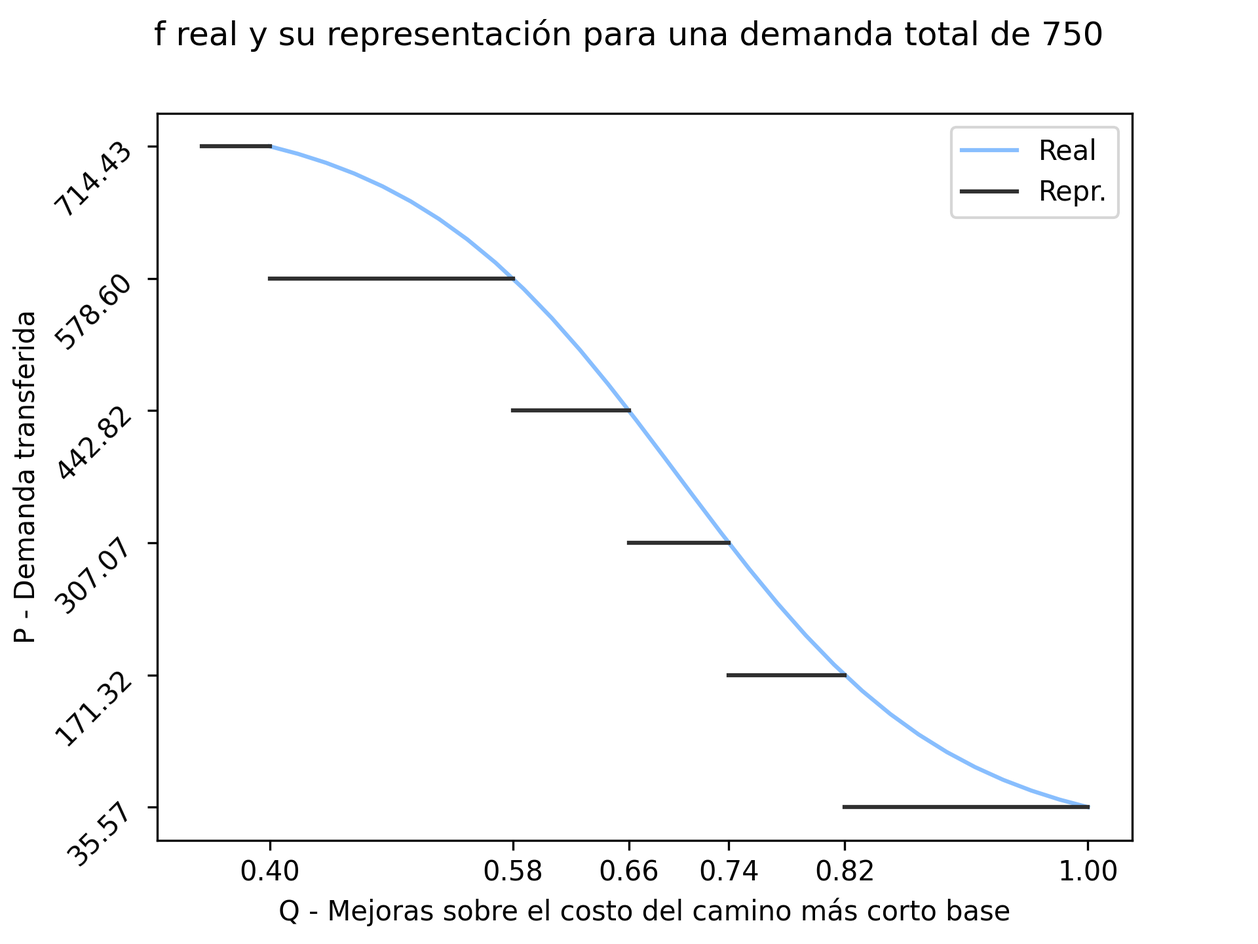
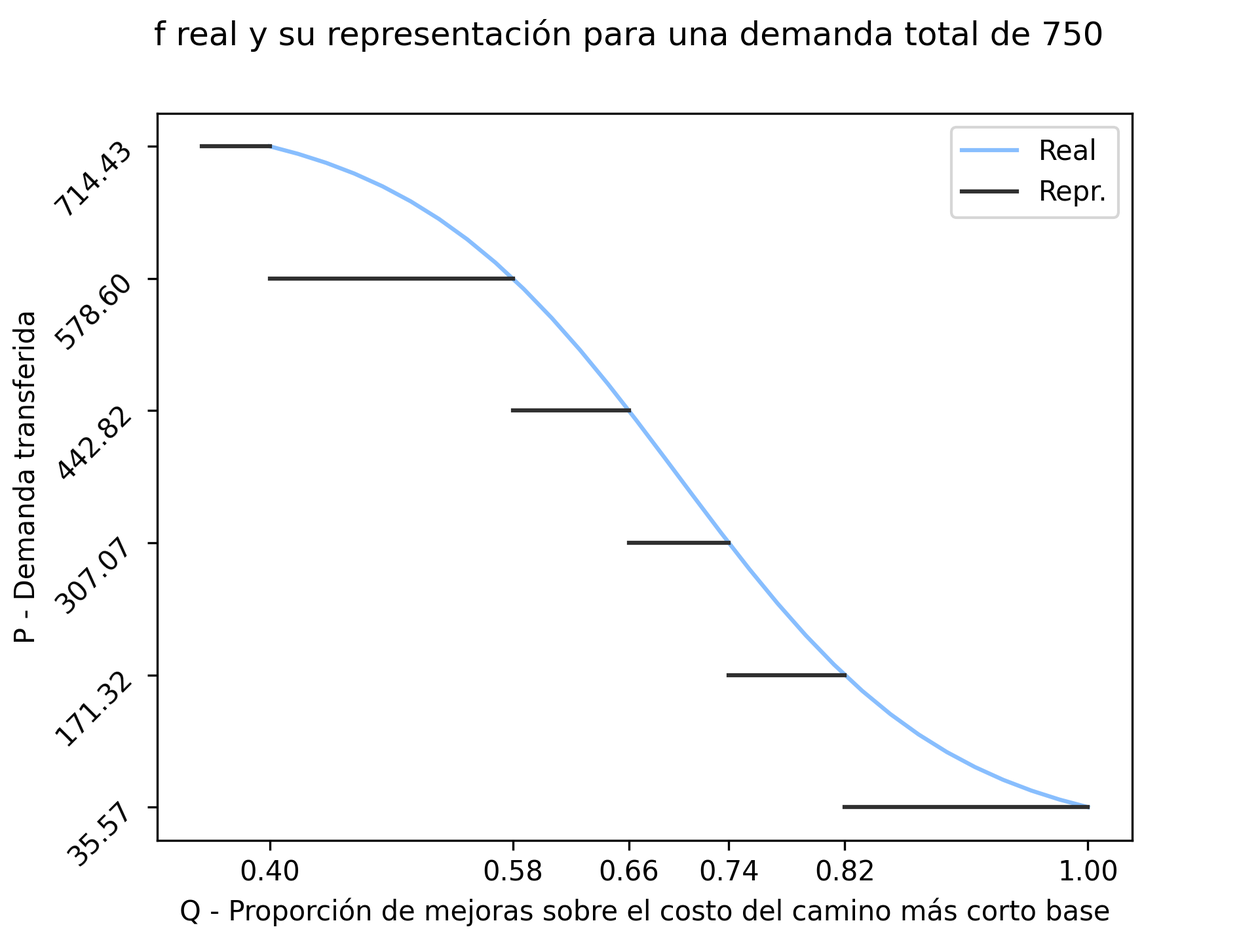
fixes in transfer functions definition

Changed region(s): [[0.1875, 0.9375, 0.875, 1.0]]

diff --git a/thesis/doc/document.tex b/thesis/doc/document.tex
@@ -337,11 +337,11 @@
     }
   \end{enumerate}
 
-  En este trabajo nos concentramos en el punto (\ref{bicycleusagefactors}), exclusivamente en los factores que pueden ser favorecidos por la presencia de cilcovias: infraestructura de ciclovías, comodidad y conveniencia, y seguridad y protección. Cada tipo de infraestructura de ciclovías puede afectar estos aspectos de distinta manera pero siempre lo modelamos como un único valor para cada arco en $C_{ai}$. Sobre los otros factores, asumimos que solo consideramos el universo de demanda que es transferible a la bicicleta, esto nos ahorra considerar aspectos como si el viaje se hace de noche o si el trabajo requiere un vehículo automotor.
+  En este trabajo nos concentramos en el punto \ref{bicycleusagefactors}, exclusivamente en los factores que pueden ser favorecidos por la presencia de cilcovias: infraestructura de ciclovías, comodidad y conveniencia, y seguridad y protección. Cada tipo de infraestructura de ciclovías puede afectar estos aspectos de distinta manera pero siempre lo modelamos como un único valor para cada arco en $C_{ai}$. Sobre los otros factores, asumimos que solo consideramos el universo de demanda que es transferible a la bicicleta, esto nos ahorra considerar aspectos como si el viaje se hace de noche o si el trabajo requiere un vehículo automotor.
 
   El mecanismo de agregar diferentes factores en un único valor es el concepto de utilidad que se utiliza en los modelos probabilísticos \cite{ortuz2011}, \cite{Pacheco2021}. La diferencia es la interpretación ya que en nuestro caso menores valores son más deseables.
 
-  El modelado del la red de calles y los distintos tipos ciclovías posibles lo realizamos de manera que sobre la red original puedan existir infraestructuras de ciclovías y luego se ajusta el costo de usuario de cada arco dependiendo de la infraestructura activa del arco. De igual forma se realizó en \cite{Lin2013} y \cite{Zhu2019}. Por otro lado, en \cite{baya2021} modelan esto como un grafo multicapas donde cada capa replica la red original. La primer capa es la red de calles, la siguiente capa es la infraestructura de tipo 1 y así sucesivamente. Luego se agregan arcos que conectan los nodos replicados entre diferentes capas. Este diseño les permite identificar los flujos que cambian de tipo de ciclovía con el objetivo de penalizar las discontinuidades. La diferencia sustancial entre ambos enfoques es que el primero modela los diferentes tipos de infrastructura a nivel de formulación y el segundo a nivel de los datos.
+  El modelado del la red de calles y los distintos tipos ciclovías posibles lo realizamos de manera que sobre la red original puedan existir infraestructuras de ciclovías y luego se ajusta el costo de usuario de cada arco dependiendo de la infraestructura activa del arco. De igual forma se realizó en \cite{Lin2013} y \cite{Zhu2019}. Por otro lado, en \cite{baya2021} modelan esto como un grafo multicapas donde cada capa replica la red original. La primer capa es la red de calles, la siguiente capa es la infraestructura de tipo 1 y así sucesivamente. Luego se agregan arcos que conectan los nodos replicados entre diferentes capas. Este diseño les permite identificar los flujos que cambian de tipo de ciclovía con el objetivo de penalizar las discontinuidades. La diferencia sustancial entre ambos enfoques es que el primero modela los diferentes tipos de infraestructura a nivel de formulación y el segundo a nivel de los datos.
 
   \section{Resolución del problema}
   \label{sect:problemresolution}
@@ -351,6 +351,7 @@
   En este trabajo tomamos un camino alternativo reescribiendo la formulación binivel como un nivel basado en sus características estructurales y en los valores que tienen sentido para sus parámetros. Previo a esta reestructura debemos adaptar la formulación binivel de manera que las variables de diferentes niveles no se encuentren en un producto, ya que esto deviene en restricciones no lineales luego de la reescritura.
 
   \subsection{Quitando producto de variables}
+  \label{sect:variableproductremoval}
 
   Proponemos la siguiente formulación del problema de segundo nivel:
 
@@ -364,7 +365,7 @@
   Si utilizamos la ecuación (\ref{eq:subproblemrefeq1}) en la restricción de igualdad de $w_k$ del problema binivel (ecuación (\ref{eq:shortestpath})) entonces el problema es equivalente con la ventaja eliminamos el producto en cuestión. La equivalencia se da porque formulación (\ref{eq:subproblemrefeq1})-(\ref{eq:subproblemrefeq4}) desagrega los flujos para cada infraestructura además de para cada par origen-destino y arco en la variable $h_{aki}$, que es lo que se modela con el producto $y_{ai} x_{ak}$.
 
   \subsection{Formulación alternativa de un nivel}
-  \label{altOneLevelFormulation}
+  \label{sect:singlelevelformulation}
 
   Proponemos una formulación alternativa de un nivel que puede ser resuelta por un solver MILP convencional y no incurre en agregados de variables. Sobre esta formulación haremos pruebas empíricas que muestran su validez. Esta formulación resuelve el mismo problema y podemos obtener de ella tanto un valor de demanda transferida como el conjunto de decisiones de cuales infraestructuras construir y dónde.
 
@@ -384,18 +385,20 @@
   Si las funciones son decrecientes (no estrictamente), entonces puede haber valores de costos de caminos más cortos que no tienen incentivo a decrecer si no se logra mayor transferencia de demanda.
 
   \subsection{Modelado de transferencia de demanda}
+  \label{sect:transferfunctiondefs}
 
   Lo que resta definir es cómo modelamos las funciones $f_k$. Nuestro objetivo es definir un mecanismo para que cualquier tipo de función pueda ser expresada como un problema de optimización lineal y que este se pueda acoplar a la formulación existente.
 
   Podemos encontrar en la literatura soluciones a problemas similares. En \cite{laporte2007} y \cite{marin2007} se modela la demanda transferida al transporte público de trenes desde el transporte privado. Consideran un parámetro $c^{PRIV}_k, k \in OD$ que modela el costo del transporte privado para un par origen-destino $k$, si la red de transporte público logra un costo menor, entonces se considera que toda la demanda del par origen-destino $k$ se transfiere a dicho modo, lo que se conoce como {\it all-or-nothing}. Utilizando nuestra notación, la demanda transferida para el par origen-destino $k$ en este esquema sería:
 
-  $$
+  \begin{equation}
+    \label{eq:allornothing}
     f_k(w_k) = \left\{ \begin{array}{lcr}
       d_k & \mbox{si}   & w_k < C^{PRIV}_k \\
             0 & \mbox{sino} &
     \end{array}
     \right.
-  $$
+  \end{equation}
 
   \subsubsection{Definición propuesta}
 
@@ -412,7 +415,7 @@
 
   Para modelar la función $argmin$ en una formulación como la que venimos trabajando es necesario utilizar variables de activación que permitan que sólo un valor del conjunto índice esté activo (para cada $k$). Por ejemplo, si se usa $z_j,\; j \in J$, lo antedicho equivale a decir que $z_j \in \{0,1\}$ y $\sum_{j \in J} z_j = 1$. Luego queda en manos de la minimización elegir el $z_j$ activo óptimo.
 
-  Nótese que esta definición es una extensión de la {\it all-or-nothing}. Para modelarla basta considerar $J = \{0, 1\}$, $P_0 = 0, P_1 = D_k$ y $Q_0 = M, Q_1 = c^{PRIV}_k$, donde $M$ es un número arbitrario mayor a $c^{PRIV}_k$ y $D_k$ es la demanda para el par origen-destino $k$.
+  Nótese que esta definición es una extensión de la {\it all-or-nothing} en (\ref{eq:allornothing}). Para modelarla basta considerar $J = \{0, 1\}$, $P_0 = 0, P_1 = d_k$ y $Q_0 = M, Q_1 = C^{PRIV}_k$, donde $M$ es un número arbitrario mayor a $C^{PRIV}_k$ y $d_k$ es la demanda para el par origen-destino $k$.
 
   \begin{figure}[h!]
     \centering
@@ -421,20 +424,21 @@
     \label{fig:fdrawexample}
   \end{figure}
 
-  \FloatBarrier
-  \subsubsection{Formulación de $f_k$ como LP}
+  Una alternativa más precisa de esta representación es la definida en \cite{Crainic2021} donde se presenta un marco para modelar funciones arbitrarias como funciones lineal de a partes con valores de pendiente no nulos entre puntos de quiebre. Esta representación es una generalizacón de la presentada en nuestro trabajo y permite representar de manera más precisa la función real al costo de mayor complejidad al momento de modelarla como problema de programación lineal (LP). Según los autores, debido a la cantidad de variables y restricciones que agrega es recomendable utilizar algorítmos especializados como Dantzig-Wolfe.
 
-  La forma más simple de modelar $f_k$ (ó simplemente $f$) es la (\ref{eq:fkv1eq1})-(\ref{eq:fkv1eq4}). Sea $W \in \mathbb{R}^+$ un valor del costo de un camino:
+  \FloatBarrier
+  \subsubsection{Formulación como problema de programación lineal}
+
+  La forma más simple de modelar $f_k$ (ó simplemente $f$) es la denotada por (\ref{eq:fkv1eq1})-(\ref{eq:fkv1eq4}). Sea $W \in \mathbb{R}^+$ un valor del costo de un camino:
 
   \begin{align}
-    f(W) =\; & max \sum_{j \in J} P_j y_j    & \label{eq:fkv1eq1}\\
+    f(W) =\; & max \sum_{j \in J} P_j y_j    & \label{eq:fkv1eq1} \\
              & s.t. \sum_{j \in J} y_j = 1   & \label{eq:fkv1eq2} \\
              & \;\;\; Q_j \geq W y_j         & \label{eq:fkv1eq3} \forall j \in J \\
              & \;\;\; y_j \in \{0,1\}        & \label{eq:fkv1eq4} \forall j \in J
   \end{align}
 
-
-  La definición anterior es un problema lineal bien formulado, sin embargo no puede ser integrada tal cual está a la formulación (\ref{eq:objectivealt}) - (\ref{eq:flowbalancealt}) sin perder linealidad dado que $W$ es modelado con variable ($w_k$) entonces el resultado seria un problema no lineal por la restricción (\ref{eq:fkv1eq3}). Por este motivo estudiamos dos formulaciones alternativas que logran solucionar esta situación. La idea en ambas es desagregar $W$ como la suma de nuevas variables y utilizar estas en la restricción (\ref{eq:fkv1eq3}) en lugar del producto $W y_j$.
+  La definición anterior es un problema lineal bien formulado, sin embargo no puede ser integrada tal cual está a la formulación (\ref{eq:objectivealt})-(\ref{eq:flowbalancealt}) sin perder linealidad dado que $W$ es modelado con una variable ($w_k$) entonces el resultado seria un problema no lineal por la restricción (\ref{eq:fkv1eq3}). Por este motivo estudiamos dos formulaciones alternativas que logran solucionar esta situación. La idea en ambas es desagregar $W$ como la suma de nuevas variables y utilizar estas en la restricción (\ref{eq:fkv1eq3}) en lugar del producto $W y_j$.
 
   \paragraph*{$f_k$ como LP versión 1}
 
@@ -449,7 +453,7 @@
              & \;\;\; w^{aux}_j, w^{sink}_j \geq 0    & \label{eq:fkv3eq7} \forall j \in J
   \end{align}
 
-  Se desagrega $W$ para cada $j$ en $w^{sink}_j + w^{aux}_j$ de manera que uno de los dos tenga el valor de $W$, esto se logra con las restricciones (\ref{eq:fkv3eq4}) y (\ref{eq:fkv3eq5}). Entonces se cumple que solo el $w^{aux}_j$ cuyo $y_j$ esté activo tendrá el valor de $W$, mientras que para el resto de los $j$ las variables $w^{sink}_j$ habrán tomado dicho valor. Las mencionadas restricciones sirven para activar $y_i$ y utilizan un parámetro $M \geq W$ arbitrario. Finalmente, las restricciones (\ref{eq:fkv3eq2}) y (\ref{eq:fkv3eq6}) logran que solo una de las variables $w^{aux}_j$ o $w^{sink}_j$ tome el valor de $W$, para cada $j$.
+  Se desagrega $W$ para cada $j$ en $w^{sink}_j + w^{aux}_j$ de manera que uno de los dos tenga el valor de $W$, esto se logra con las restricciones (\ref{eq:fkv3eq4}) y (\ref{eq:fkv3eq5}). Entonces se cumple que solo el $w^{aux}_j$ cuyo $y_j$ esté activo tendrá el valor de $W$, mientras que para el resto de los $j$ las variables $w^{sink}_j$ habrán tomado dicho valor. Las mencionadas restricciones sirven para activar $y_i$ y utilizan un parámetro $M \geq W$ arbitrario. Finalmente, las restricciones (\ref{eq:fkv3eq2}) y (\ref{eq:fkv3eq6}) logran que solo una de las variables $w^{aux}_j$ o $w^{sink}_j$ tome el valor de $W$, para cada $j$. Las variables $w^{sink}_j$ sirven para absorber el valor de $W$ cuando $y_j$ está inactiva de manera que se pueda cumplir la restricción (\ref{eq:fkv3eq3}) cuando $W$ es mayor a a $Q_j$.
 
   \paragraph*{$f_k$ como LP versión 2}
 
@@ -463,36 +467,34 @@
              & \;\;\; w^{aux}_j \geq 0                & \label{eq:fkv2eq6} \forall j \in J
   \end{align}
 
-  En este caso se desagrega $W$ como suma de $|J|$ variables $w^{aux}_j$ de manera que solo una de ellas esté activa y tenga el valor de $W$. Para activar $y_j$ se agrega la restricción (\ref{eq:yactivation1}) utilizando, igual que en la formulación anterior, un parámetro $M \geq W$. Finalmente las restricciones (\ref{eq:activatewaux}) y (\ref{eq:fkv2eq2}) logran que solo uno de los $w^{aux}_j$ tome el valor de $W$ y el resto sean 0.
+  En este caso se desagrega $W$ como suma de $|J|$ variables $w^{aux}_j$ de manera que solo una de ellas esté activa y tenga el valor de $W$. Para activar $y_j$ se agrega la restricción (\ref{eq:yactivation1}) utilizando, igual que en la formulación anterior, un parámetro $M \geq W$. Finalmente, las restricciones (\ref{eq:fkv2eq2}) y (\ref{eq:activatewaux}) logran que solo uno de los $w^{aux}_j$ tome el valor de $W$ y el resto sean 0.
 
-  \subsubsection{Validación de la formulación}
+  \subsubsection{Discusión de las formulaciones de transferencia de demanda}
 
-  Según definimos $f_k(W)$ en la fórmula (\ref{eq:deffks}), sea $p = f_k(W)$, entonces se cumple que:
+  Según definimos $f_k(W)$ en (\ref{eq:deffks}), sea $p = f_k(W)$, entonces se cumple que:
 
   \begin{enumerate}
     \item {\label{deffpt1} $p$ es exactamente uno de los valores del conjunto de valores $P_j$, es decir: $p \in \{P_j\}_{j \in J}$}
     \item {\label{deffpt2} Sea $\hat{j} = j \;|\; p = P_j$. Se cumple que el valor del punto de quiebre $Q$ asociado a $\hat{j}$ no es menor que el costo del camino más corto $W$, es decir: $Q_{\hat{j}} \geq W$.}
-    \item {\label{deffpt3} Dado el $\hat{j}$ anterior, entonces no existe un punto de quiebre $Q_j \forall j \in J\setminus\{\hat{j}\}$ que sea no mayor al punto de quiebre $Q_{\hat{j}}$ y mayor o igual al costo del camino más corto, es decir: $\not{\exists}\; Q_j\; \forall j \in J\setminus\{\hat{j}\} \;|\; Q_j \in  [W, Q_{\hat{j}}]$}.
+    \item {\label{deffpt3} Dado el $\hat{j}$ anterior, entonces no existe un punto de quiebre $Q_j \; \forall j \in J\setminus\{\hat{j}\}$ que sea no mayor al punto de quiebre $Q_{\hat{j}}$ y mayor o igual al costo del camino más corto, es decir: $\not{\exists}\; Q_j\; \forall j \in J\setminus\{\hat{j}\} \;|\; Q_j \in  [W, Q_{\hat{j}}]$}.
   \end{enumerate}
 
-  Es de nuestro interés analizar la correctitud de las formulaciones respecto a los puntos mencionados.
-
-  Para la versión 1, tenemos que el punto \ref{deffpt1} se cumple en la función objetivo donde el valor objetivo es la suma sobre el conjunto $\{P_j\}_{j \in J}$, la restricción (\ref{eq:fkv3eq2}) dice que solo uno de esos valores puede estar activo en la suma del objetivo dado el dominio de la variable $y_j$. Luego, el punto \ref{deffpt2} se cumple dado que $y_{\hat{j}} = 1$ por el punto anterior, entonces $w_{\hat{j}}^{aux} = W$ por restricciones (\ref{eq:fkv3eq4}), (\ref{eq:fkv3eq5}) y (\ref{eq:fkv3eq6}) y la restricción (\ref{eq:fkv3eq3}) verifica el punto en cuestión. Finalmente, el punto \ref{deffpt3} se cumple por el hecho de que la función objetivo es una maximización y que $f(W)$ es una función estrictamente decreciente, entonces, si existiera un $Q_a \in \{Q_j\}_{j \in J} \;|\; Q_a < Q_{\hat{j}}, a \in J$, existe un valor $P_a > P_{\hat{j}}$ lo que contradice el hecho de que el objetivo sea una maximización.
+  Es de nuestro interés analizar la correctitud de las formulaciones respecto a los puntos mencionados. Para la versión 1, tenemos que el punto \ref{deffpt1} se cumple en la función objetivo donde se establece el valor objetivo como la suma sobre el conjunto $\{P_j\}_{j \in J}$, la restricción (\ref{eq:fkv3eq2}) dice que solo uno de esos valores puede estar activo en la suma del objetivo dado el dominio de la variable $y_j$. Luego, el punto \ref{deffpt2} se cumple dado que $y_{\hat{j}} = 1$ por el punto anterior, entonces $w_{\hat{j}}^{aux} = W$ por restricciones (\ref{eq:fkv3eq4}), (\ref{eq:fkv3eq5}) y (\ref{eq:fkv3eq6}) y la restricción (\ref{eq:fkv3eq3}) verifica el punto en cuestión. Finalmente, el punto \ref{deffpt3} se cumple por el hecho de que la función objetivo es una maximización y que $f(W)$ es una función estrictamente decreciente, entonces, si existiera un $Q_a \in \{Q_j\}_{j \in J} \;|\; Q_a < Q_{\hat{j}}, a \in J$, existe un valor $P_a > P_{\hat{j}}$ lo que contradice el hecho de que el objetivo sea una maximización.
 
   Podemos utilizar las justificaciones de los puntos 1 y 3 para la versión 2 de la formulación. Luego, el punto \ref{deffpt2} se cumple dado que $y_{\hat{j}} = 1$ por las los puntos anteriores y junto a que que $w^{aux}_{\hat{j}} = W$ por las restricciones (\ref{eq:fkv2eq2}), (\ref{eq:yactivation1}) y (\ref{eq:activatewaux}) tenemos que la condición se cumple en la restricción (\ref{eq:implfkoriginalineq}).
 
   \subsubsection{Valores posibles de $P_j$ y $Q_j$}
 
-  Los valores que tienen sentido para los conjuntos $Q$ y $P$ son cualquier subconjunto discreto del dominio de la función de transferencia de demanda y su valor funcional, respectivamente. Dado un par origen-destino $k \in OD$ entendemos que tiene sentido que el dominio de $f_k$ sean valores de costos del camino más corto entre el mejor posible y el peor. Dada una instancia del problema y un par origen destino, llamamos $\underline{W}$ al costo del camino más corto suponiendo que las mejores infraestructuras se pueden construir y $\overline{W}$ al costo del camino más corto sobre el grafo base (sin infraestructuras especiales) \footnote{En realidad, $\overline{W}$ es el mínimo valor para el que $f_k$ es mínimo, podría ser cualquier número arbitrariamente grande.}, entonces $Q_j \in [\underline{W}, \overline{W}],\; \forall j \in J$. Los valores de $Pj$ son la cantidad de demanda que se transfiere para cada $Q_j$, es decir $P = \{f_k(Q_j):\; j \in J\}$. El conjunto índice $J$ determina la precisión con que se representa la función $f_k$.
+  Los valores que tienen sentido para los conjuntos $Q$ y $P$ son cualquier subconjunto discreto del dominio de la función de transferencia de demanda y su valor funcional, respectivamente. Dado un par origen-destino $k \in OD$ entendemos que tiene sentido que el dominio de $f_k$ sean valores de costos de usuario de camino más cortos que van desde aquel para el cual toda la demanda se transfiere hasta aquel para el cual no hay demanda transferida. Dada una instancia del problema y un par origen destino, llamamos $\underline{W}$ al costo del camino más corto suponiendo que las mejores infraestructuras se pueden construir y $\overline{W}$ al costo del camino más corto sobre el grafo base (sin infraestructuras especiales) \footnote{En realidad, $\overline{W}$ es el mínimo valor para el que $f_k$ es mínimo, podría ser cualquier número arbitrariamente grande.}, entonces $Q_j \in [\underline{W}, \overline{W}],\; \forall j \in J$. Los valores de $Pj$ son la cantidad de demanda que se transfiere para cada $Q_j$, es decir $P = \{f_k(Q_j):\; j \in J\}$. El conjunto índice $J$ determina la precisión con que se representa la función $f_k$.
 
-  Es deseable también que el mínimo de $f_k$ sea 0 y que el máximo sea la demanda total del par $k$: $D_k$, osea $f_k(\overline{W}) = 0$ y $f_k(\underline{W}) = D_k$. Es decir, si ninguna mejora es impuesta al camino más corto no haya transferencia de demanda así como si la mejor infraestructura posible es construida toda la demanda se transfiera. Esto tiene sentido si trabajamos solamente con la demanda transferible a la bicicleta, dejando afuera la que ya utiliza dicho medio de transporte, la que en ningún caso la utilizaría y la que requiere de costos de usuario demasiado bajos para las posibilidades de la instancia.
+  Es deseable también que el mínimo de $f_k$ sea 0 y que el máximo sea la demanda total del par $k$: $d_k$, osea $f_k(\overline{W}) = 0$ y $f_k(\underline{W}) = d_k$. Es decir, si ninguna mejora es impuesta al camino más corto no haya transferencia de demanda así como si la mejor infraestructura posible es construida toda la demanda se transfiera. Esto tiene sentido si trabajamos exclusivamente con la demanda transferible a la bicicleta dejando afuera la que ya utiliza dicho medio de transporte, la que en ningún caso la utilizaría y la que requiere de costos de usuario demasiado bajos para las posibilidades de la instancia.
 
   Una forma posible de establecer los valores de $J$, $P_j$ y $Q_J$ es: dada una función $f_k$, tomando $N$ valores equidistantes entre $[\underline{W}, \overline{W}]$ obtendremos $Q_j$ y tomando el valor funcional de esos puntos obtendremos $P_j$, luego $J=\{1,..,N\}$.
 
-  \subsection{Poniendo todo junto}
+  \subsection{Formulación integrada}
   \label{sect:alltogether}
 
-  Luego del análisis hecho, ensamblamos la formulación final de manera explícita. Dado que tenemos dos variantes del modelado de las $f_k$ entonces también tendremos dos variantes de esta formulación. Aquí presentamos la formulación completa utilizando la versión 2 de $f_k$, siendo la otra muy similar. Fundamentalmente sobre estas dos variantes trabajamos en lo que sigue.
+  Luego del análisis hecho en las secciones \ref{sect:variableproductremoval}, \ref{sect:singlelevelformulation} y \ref{sect:transferfunctiondefs}, ensamblamos la formulación final de manera explícita. Dado que tenemos dos variantes del modelado de las funciones de transferencia de demanda entonces también tendremos dos variantes de esta formulación. Aquí presentamos la formulación completa utilizando la versión 2 de $f_k$, siendo la otra muy similar. Fundamentalmente sobre estas dos variantes trabajamos en lo que sigue.
 
   Además de las definiciones en la formulación inicial (\ref{eq:objective1lvl})-(\ref{eq:flowbalance}), agregamos las siguientes:
 
@@ -503,8 +505,10 @@
     \item[$M$]: Número positivo muy grande.
     \item[$z_{kj}$]: Variable binaria que determina si la demanda transferida para el par origen-destino $k \in OD$ es la de índice $j \in J$.
     \item[$h_{aki}$]: Variable no negativa que determina el flujo que pasa por el arco $a \in A$, para el par origen-destino $k \in OD$ utilizando la infraestructura $i \in I$.
-    \item[$w^{aux}_{kj}$]: Variable no negativa que contiene el valor de $w_{k}$ si $z_{kj}$ esta activa y de lo contrario cero.
+    \item[$w^{aux}_{kj}$]: Variable no negativa que contiene el valor de $w_{k}$ si $z_{kj}$ está activa y de lo contrario cero.
   \end{description}
+
+  La formulación que resulta de la integración de las formulaciones (\ref{eq:objectivealt})-(\ref{eq:flowbalancealt}) que define la formulación de un nivel, de (\ref{eq:subproblemrefeq1})-(\ref{eq:subproblemrefeq4}) que quita el producto de variables y de (\ref{eq:fkv2eq1})-(\ref{eq:fkv2eq6}) que define la versión 2 de las funciones de transferencia de demanda es la siguiente:
 
   \begin{align}
     \text{max}    & \sum_{k \in OD} \sum_{j \in J} P_{kj} z_{kj}                          & \label{eq:objectivefinalalt} \\
@@ -518,18 +522,19 @@
                   & \sum_{a \in A_n^+} x_{ak} - \sum_{a \in A_n^-} x_{ak} = \theta_{nk}   & \forall n \in N, k \in OD \label{eq:flowbalancealtfinal} \\
                   & x_{ak} = \sum_{i \in I} h_{aki}                                       & \forall a \in A, k \in K \label{eq:flowactivationalt} \\
                   & 0 \leq h_{aki} \leq y_{ai}                                            & \forall a \in A, k \in K, i \in I \label{eq:respectinfraalt} \\
-                  & z_{kj} \in \{0,1\}                                                    & \nonumber \\
-                  & w_k \geq 0, y_{ai} \in \{0,1\}, x_{ak} \geq 0, h_{aki} \geq 0         & \nonumber
+                  & z_{kj} \in \{0,1\}                                                    & \forall k \in OD, j \in J \nonumber \\
+                  & y_{ai} \in \{0,1\}                                                    & \forall a \in A, i \in I \nonumber \\
+                  & h_{aki} \geq 0                                                        & \forall a \in A, k \in K, i \in I \nonumber
   \end{align}
 
   Donde las nuevas ecuaciones son:
 
   \begin{description}
-    \item[\ref{eq:objectivefinalalt}]: Función que suma los valores de demanda transferida $P_{kj}$ activos.
+    \item[\ref{eq:objectivefinalalt}]: Función que suma los valores de demanda transferida $P_{kj}$ correspondiente a los puntos de quiebre activos.
     \item[\ref{eq:breakpointsalt}]: Restricción que determina que los puntos de quiebre activos son aquellos cuyo costo es menor o igual al del camino más corto.
     \item[\ref{eq:singularbreakpointalt}]: Restricción que permite solo un punto de quiebre activo para cada par origen-destino $k \in OD$.
-    \item[\ref{eq:flowactivationalt}]: El flujo total para el arco $a \in A$ y el par origen-destino $k \in OD$ es la suma de los flujos de todos las infraestructuras.
-    \item[\ref{eq:respectinfraalt}]: El flujo por el arco $a \in A$, para el par origen-destino $k \in OD$ y la infraestructura $i \in I$ puede estar activo si la infraestructura $i$ esta activa.
+    \item[\ref{eq:flowactivationalt}]: Restricción que fija el valor del flujo por arco por par origen-destino en base al flujo por arco, por par origen-destino y por infraestructura.
+    \item[\ref{eq:respectinfraalt}]: Restricción que limita el flujo desagregado por arco e infraestructura ($h_{aki}$) a la infraestructura activa en el arco. El flujo por el arco $a \in A$, para el par origen-destino $k \in OD$ y la infraestructura $i \in I$ puede estar activo si la infraestructura $i$ esta activa.
   \end{description}
 
   \subsection{Validación}
@@ -552,7 +557,7 @@
     Q_{kj} z_{kj} - r_{kj} = w^{aux}_{kj}
   \end{equation}
 
-  Advertir que esta restricción se encuentra en ambas versiones de la formulaciónes de $f_k$ por lo tanto en ambos casos se aplica esta variante.
+  Advertir que esta restricción se encuentra en ambas versiones de la formulaciones de $f_k$ por lo tanto en ambos casos se aplica esta variante.
 
   Sea el parámetro $\beta > 0$, la función multiobjetivo 1 es:
 
@@ -804,7 +809,7 @@
 
   Incurrimos a la simplificación de considerar, al definir una instancia, la cantidad $T$ de tipos infraestructuras posibles a utilizar y no cuáles, de manera que las infraestructuras utilizables sean $I = \{0,.., T - 1\}$. Dada una instancia del problema, llamamos $m$ a la proporción de mejora máxima que puede dar la mejor infraestructura de entre las disponibles, es decir $m = C_{infra}(T - 1)$. El valor $m$ es de utilidad al definir las funciones de transferencia de demanda como veremos a continuación.
 
-  Respecto al comportamiento de los usuarios, suponemos que la demanda de todos los pares origen-destino se comporta de igual manera, lo cual tiene sentido al considerar una población determinada. Esto reduce la necesidad de especificar $|OD|$ funciones de transferencias de demanda a una sola. Es decir, para cada par origen destino $k$, tenemos que $f_k(w_k) = f({w_k \over S^{best}_k})D_k$, donde $D_k$ es la demanda máxima que se puede transferir, $S^{best}_k$ es el costo del camino más corto sobre la infraestructura base y $f: [m, 1] \rightarrow [0, 1]$ modela la proporción de demanda transferida en función de la proporción del nuevo costo sobre el costo base $S^{best}_k$.
+  Respecto al comportamiento de los usuarios, suponemos que la demanda de todos los pares origen-destino se comporta de igual manera, lo cual tiene sentido al considerar una población determinada. Esto reduce la necesidad de especificar $|OD|$ funciones de transferencias de demanda a una sola. Es decir, para cada par origen destino $k$, tenemos que $f_k(w_k) = f({w_k \over S^{best}_k})d_k$, donde $d_k$ es la demanda máxima que se puede transferir, $S^{best}_k$ es el costo del camino más corto sobre la infraestructura base y $f: [m, 1] \rightarrow [0, 1]$ modela la proporción de demanda transferida en función de la proporción del nuevo costo sobre el costo base $S^{best}_k$.
 
   Partimos del trabajo {\it Performance evaluation of extreme bicycle scenarios} \cite{shwe2014} que analizando una extensiva encuesta realizada en varios países aproxima la proporción de viajes hechos en bicicleta y el largo de infraestructura de ciclovía per cápita en la ciudad a una relación lineal. Tomando este resultado, utilizamos una función lineal decreciente como función de transferencia de referencia. Como alternativa, encontramos en el libro {\it Modeling Transport} \cite{ortuz2011} que el comportamiento de la demanda al momento de decidir entre dos modos se comporta como una función con forma de S, logística o sigmoide, por lo que también consideramos una función logística en nuestras pruebas. Por completitud analizamos otras funciones que podrían considerarse razonables: una con concavidad estrictamente positiva y otra con concavidad estrictamente negativa en el intervalo $[m, 1]$.
 

diff --git a/scripts/docresources.py b/scripts/docresources.py
@@ -99,7 +99,7 @@ def draw_f_example():
     ax.set_yticklabels([format(d, '.2f') for d in demand * np.array(ys)])
     ax.set_xticks(xs)
 
-    ax.set_xlabel('Q - Mejoras sobre el costo del camino más corto base')
+    ax.set_xlabel('Q - Proporción de mejoras sobre el costo del camino más corto base')
     ax.set_ylabel('P - Demanda transferida')
     ax.legend()
 
